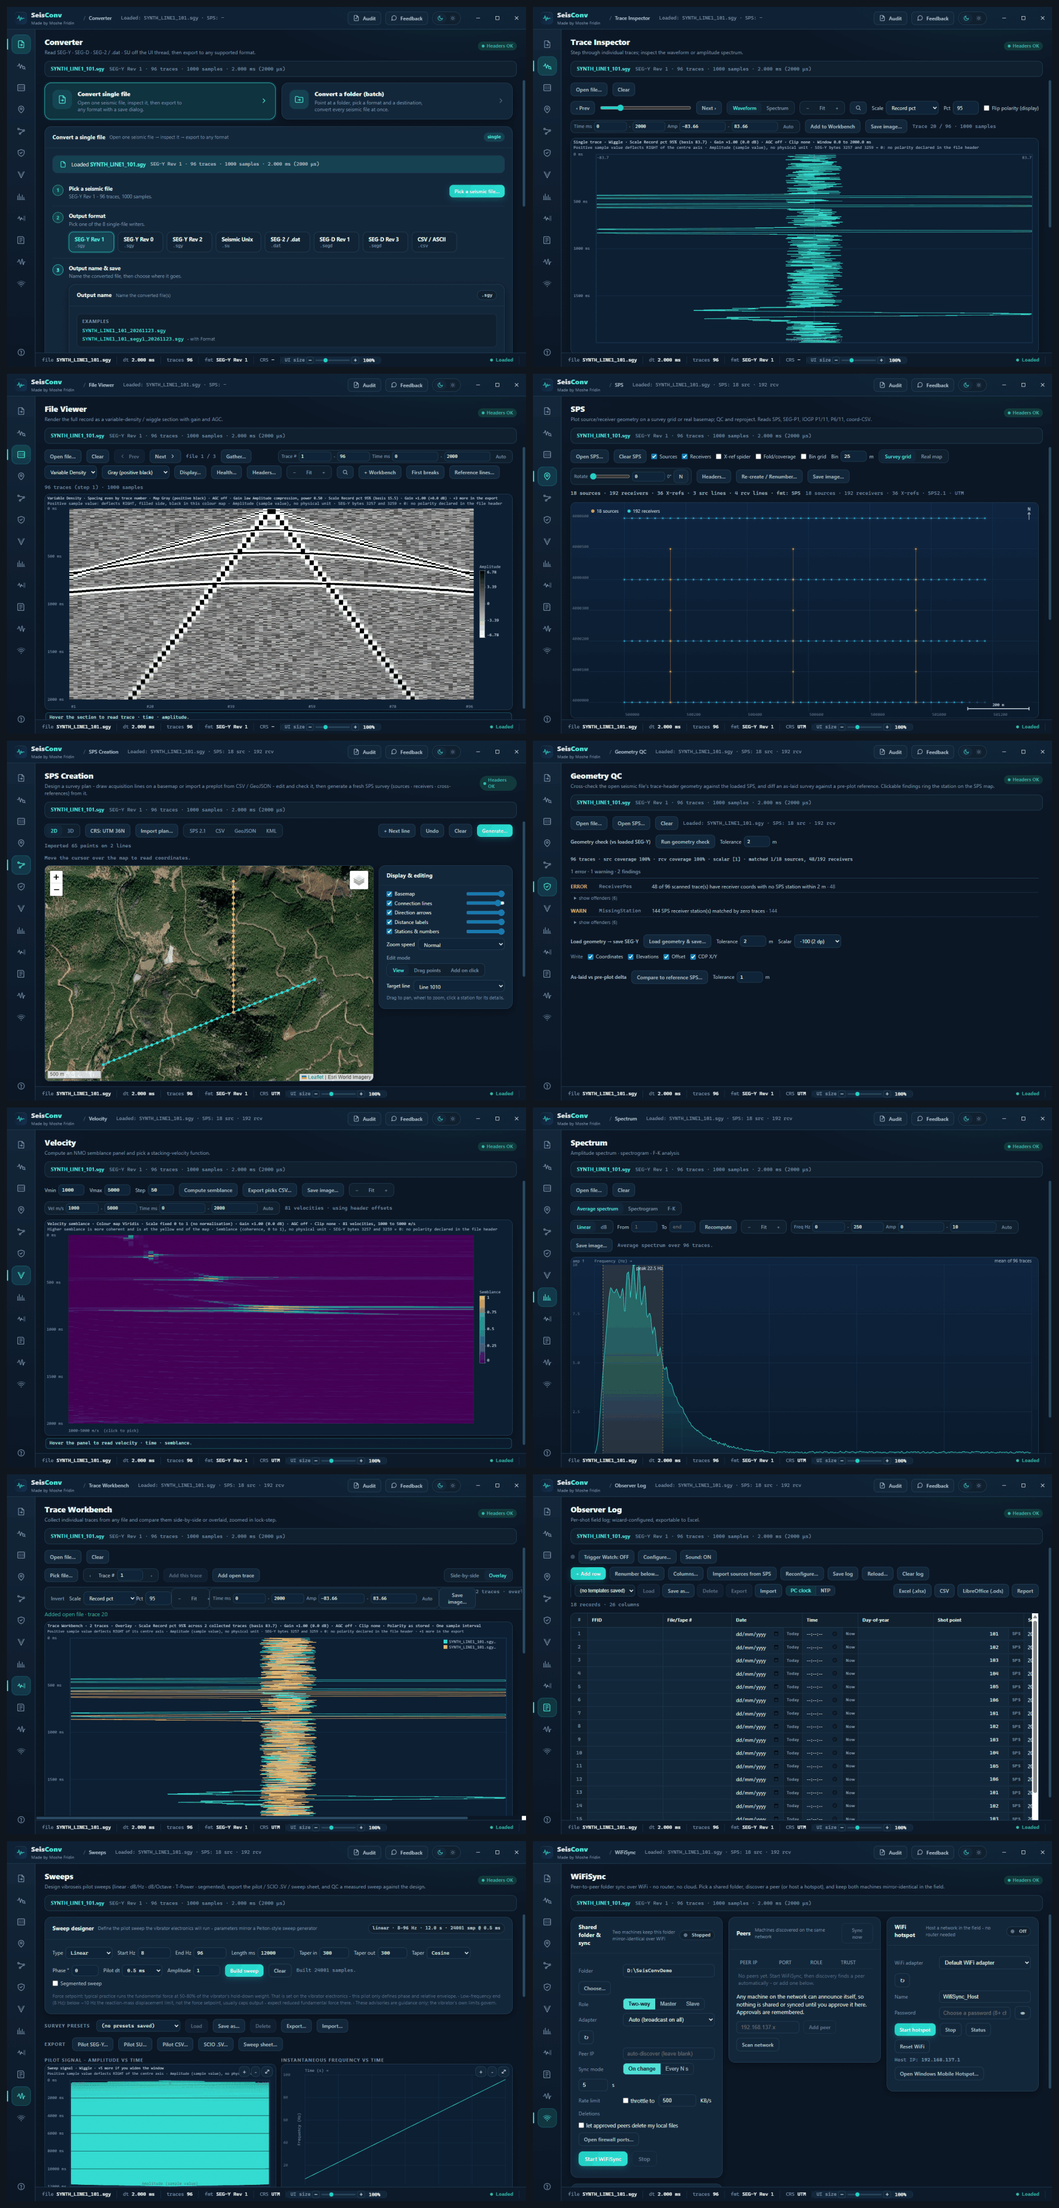
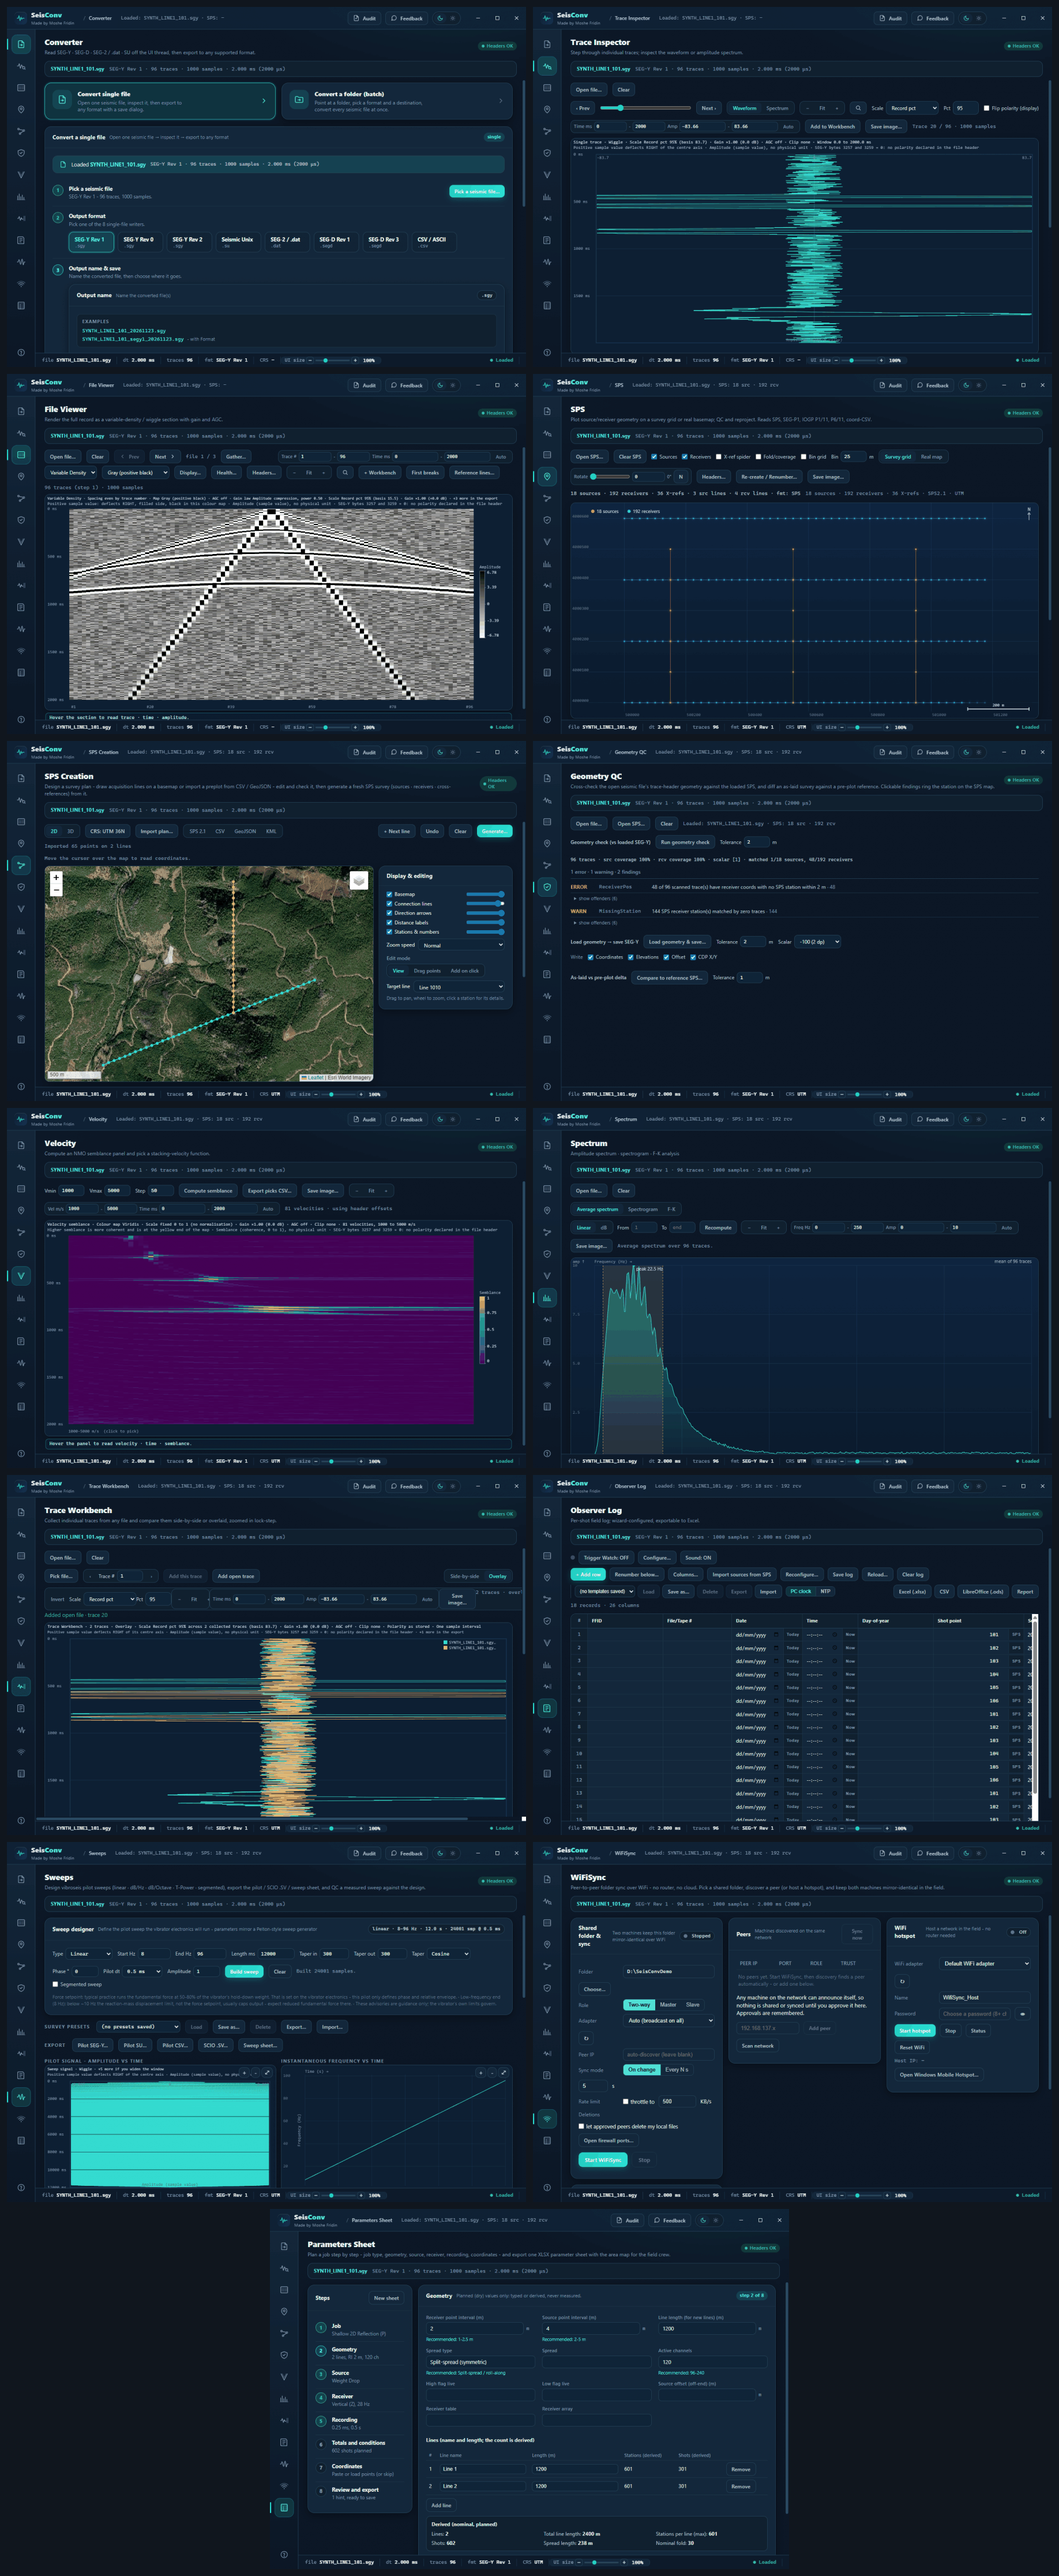
docs(readme): the Parameters Sheet tab, thirteen tabs, and the facts it changed
- Parameters Sheet: new Features section and Contents entry, and named in
  the tab summary, worded from MANUAL.md and docs/manual/parts.
- Tab counts: twelve -> thirteen (summary, gallery heading, contact sheet,
  architecture tree "13-tab shell").
- Online features: four -> five, adding the Parameters Sheet area-map
  basemap, as MANUAL.md and PRIVACY.md already describe it.
- Core tree gains sheet/; renderer is ~1.14 MB app.ts (committed blob
  1,135,284 bytes) plus manual.ts and paramsheet.ts.
- Manual: 108 pages (rendered locally with the 0.8.8 manual shots; the
  release regenerates them), Part II now eleven worked jobs.
- Measured: 561 passed / 0 failed / 4 skipped; 200 golden display states.
- Download: names the installer file pattern and adds the Microsoft Store
  listing, with a note that the Store build updates through the Store.
- tabs.png regenerated with all thirteen tabs from the synthetic manual
  fixtures, on the secondary display at 1240x860, fresh profile, every
  frame through the frame-safety denylist, quantised to 256 colours.

diff --git a/README.md b/README.md
@@ -52,15 +52,15 @@
 
 SeisConv is a Windows desktop application built on Electron, with a platform-agnostic TypeScript core, for working with seismic data files. Drop in any file and SeisConv identifies the format revision, sample encoding (IBM float or IEEE), and byte order automatically, before you choose an output format. All parsing runs on a worker thread; the UI stays responsive on multi-gigabyte files.
 
-It **runs offline** - no account, no cloud, no licence server - and nothing you open is uploaded anywhere. Four optional features touch the internet: the real-map basemap on the SPS tabs, which fetches map tiles; the optional basemap band in a GeoTIFF export, which downloads the tiles it resamples; Sync clock in the Observer's Log, which queries an NTP time server; and Check for updates in Help, which asks GitHub once whether a newer release has been published and downloads nothing; on Windows its Update now button, only when you click and confirm it, downloads that release's installer from GitHub, verifies its SHA-256 fingerprint and installs it. None of the four is required to use the app, none of them is contacted unless you ask for it, and everything else, the roughly 7,000-CRS EPSG registry included, works with no connection at all.
+It **runs offline** - no account, no cloud, no licence server - and nothing you open is uploaded anywhere. Five optional features touch the internet: the real-map basemap on the SPS tabs, which fetches map tiles; the optional basemap band in a GeoTIFF export, which downloads the tiles it resamples; the area-map basemap of the Parameters Sheet, which downloads the tiles for the map picture only when you save the sheet or ask for a preview; Sync clock in the Observer's Log, which queries an NTP time server; and Check for updates in Help, which asks GitHub once whether a newer release has been published and downloads nothing; on Windows its Update now button, only when you click and confirm it, downloads that release's installer from GitHub, verifies its SHA-256 fingerprint and installs it. None of the five is required to use the app, none of them is contacted unless you ask for it, and everything else, the roughly 7,000-CRS EPSG registry included, works with no connection at all.
 
 **Who it is for:** field crews, party chiefs and observers who need to check and convert a record on the spot, and processing geophysicists who need geometry and headers to be right before the data reaches a processing system.
 
-Twelve tabs cover the full office-and-field workflow: format conversion including batch to single tape-image combine (Converter), per-trace inspection with FFT QC (Trace Inspector), section visualization with first-break picking and trace-health QC (File Viewer), multi-format survey-geometry QC (SPS), survey design from a map (SPS Creation), NMO velocity analysis (Velocity), frequency and wavenumber analysis (Spectrum Analysis), multi-trace comparison and correlation (Trace Workbench), a configurable field-log grid (Observer's Log), SEG-Y to SPS cross-validation (Geometry QC), a vibroseis sweep designer and sweep QC (Sweeps), and built-in peer-to-peer file sharing over local WiFi with no router or configuration (WiFiSync). Multi-gigabyte files open through a streaming trace index, and any operation that can take more than a few seconds shows a progress bar.
+Thirteen tabs cover the full office-and-field workflow: format conversion including batch to single tape-image combine (Converter), per-trace inspection with FFT QC (Trace Inspector), section visualization with first-break picking and trace-health QC (File Viewer), multi-format survey-geometry QC (SPS), survey design from a map (SPS Creation), NMO velocity analysis (Velocity), frequency and wavenumber analysis (Spectrum Analysis), multi-trace comparison and correlation (Trace Workbench), a configurable field-log grid (Observer's Log), SEG-Y to SPS cross-validation (Geometry QC), a vibroseis sweep designer and sweep QC (Sweeps), built-in peer-to-peer file sharing over local WiFi with no router or configuration (WiFiSync), and a step-by-step job planner that saves one Excel parameter sheet for the field crew (Parameters Sheet). Multi-gigabyte files open through a streaming trace index, and any operation that can take more than a few seconds shows a progress bar.
 
 If you are looking for an **open source alternative** to a commercial format converter or SEG-Y viewer, SeisConv is meant to complement rather than replace the established toolchain: it **complements Seismic Unix, OpendTect and ObsPy** for the specific jobs of format conversion, header and geometry QC, and survey positioning, and it puts those jobs in a graphical Windows application that needs no scripting environment to run.
 
-<p align="center"><b>Seven more of the twelve tabs.</b></p>
+<p align="center"><b>Seven more of the thirteen tabs.</b></p>
 
 <table align="center">
   <tr>
@@ -99,6 +99,7 @@ If you are looking for an **open source alternative** to a commercial format con
   - [Observer's Log](#observers-log)
   - [WiFiSync](#wifisync)
   - [Spectrum Analysis](#spectrum-analysis)
+  - [Parameters Sheet](#parameters-sheet)
   - [Viewer controls](#viewer-controls)
 - [Format support](#format-support)
 - [The argument in pictures](#the-argument-in-pictures)
@@ -316,6 +317,19 @@ All three views share the manual X/Y axis range boxes (with Auto reset) and supp
 
 ---
 
+### Parameters Sheet
+
+Plan one seismic job before the crew goes out, and hand them a single Excel workbook. An eight-step wizard (Job, Geometry, Source, Receiver, Recording, Totals and conditions, Coordinates, Review and export) collects the planned values: typed, picked from a list or derived from what you typed, never measured. **Nothing is mandatory**: fill in what you know, skip any step, open the steps in any order, and the saved sheet lists only what was filled.
+
+- **Job type first.** Picking a job type fills recommended defaults (intervals, sample rate, record length, low cut, source, stack, geophone frequency and type, spread type, channels) and shows the recommended range under each field. Every value stays editable, and free typing is always allowed.
+- **Derived for you.** The named lines and their lengths give the line count, stations and shots per line, total shots and files, Nyquist, samples per trace and the nominal fold (2D or 3D).
+- **Hints, never blocks.** A high cut or sweep above Nyquist, typed totals that disagree with the plan, an MASW array shorter than about twice the target depth, SH work planned with vertical geophones: each is pointed out, none stops you.
+- **Coordinates.** Paste a list or load TXT, CSV, KML or GeoJSON. The delimiter, the columns, degrees or metres and a proposed coordinate system are detected and shown, and nothing is applied until you press Confirm; when the numbers cannot tell, it asks. If the point names describe different lines from the Geometry step, it says so and offers to take the line names and lengths from the coordinates. No area yet is a valid answer.
+- **The workbook.** A one-page Parameters sheet (label, value, unit, with real numbers and real dates), an Area sheet with every point's Easting, Northing, latitude and longitude, a Map sheet with the area map (named lines, extent, coordinate grid, scale bar, north arrow), and an About sheet. An optional company logo (PNG or JPEG) goes beside the sheet title and on the map. The map basemap is downloaded only when you save or ask for a preview, and choosing No basemap fetches nothing; with no connection the sheet is still saved, the map drawn on grey with a note, and the coordinates are exact.
+- **Reuse it.** Save as layout keeps the parameters, the lines and the logo as a named layout on this computer; the coordinate list and the job-specific details are added only if you tick them. Start the next similar job from the saved-layouts list at the top of the Job step, where Manage renames, exports or deletes layouts. The same configuration can be exported to, or imported from, a `.seisparams` file to keep elsewhere or send to a colleague. The sheet itself starts empty every time the app opens.
+
+---
+
 ### Viewer controls
 
 Every seismic viewer (File Viewer, Trace Inspector, Spectrum Analysis, Velocity, Trace Workbench) provides manual X-axis and Y-axis range boxes (min / max numeric inputs) plus an **Auto** button that clears the overrides and reverts to auto-fit. This makes it straightforward to compare the same time window across tabs or to zoom into a specific frequency band in the Spectrum views.
@@ -427,10 +441,10 @@ the panel exactly as it stands as a red, green or blue deficient viewer would se
 Zoom, gain, colour map, AGC, the scale basis and the trace window all survive the page turn, so what changes
 on screen is the data and not the framing.
 
-### Twelve tabs, one application
+### Thirteen tabs, one application
 
 <p align="center">
-  <img src="design/promo/tabs.png" width="98%" alt="Contact sheet of all twelve SeisConv tabs"/>
+  <img src="design/promo/tabs.png" width="98%" alt="Contact sheet of all thirteen SeisConv tabs"/>
 </p>
 
 <details>
@@ -441,8 +455,8 @@ will give you different figures.
 
 | What | Measured |
 |---|---|
-| Core unit tests | **513 passed, 0 failed, 4 skipped** without local sample data (`npm run test:core`) |
-| Pixel render oracle | **197 display states** hashed and compared, so a refactor cannot silently change a drawing |
+| Core unit tests | **561 passed, 0 failed, 4 skipped** without local sample data (`npm run test:core`) |
+| Pixel render oracle | **200 display states** hashed and compared, so a refactor cannot silently change a drawing |
 | File Viewer section redraw | **234 ms down to 43 ms** after the display rework, on the same record |
 | Near-trace gather | **116 records** of a real field folder read and drawn in about **2 seconds** |
 
@@ -454,8 +468,15 @@ will give you different figures.
 
 **Windows 10 / 11, 64-bit.** Download the installer from the
 [latest release](https://github.com/m0shiko8811-beep/SeisConv/releases/latest)
-and run it. The installer lets you choose the installation directory (per-user
-by default, with an option to elevate and install for all users).
+and run it: the file is `SeisConv-Setup-<version>.exe`. The installer lets you
+choose the installation directory (per-user by default, with an option to
+elevate and install for all users).
+
+Or install it from the
+[Microsoft Store](https://apps.microsoft.com/detail/9N0XMXJKZ16R). The Store
+build updates through the Store, so it has no Check for updates button, and a
+new version reaches it only after Microsoft's certification, which can take a
+few days after the GitHub release.
 
 > **The installer is not code-signed.** On first run Windows SmartScreen will
 > show *"Windows protected your PC"*. Click **More info**, then **Run anyway**.
@@ -468,13 +489,13 @@ but are **not built or distributed** - on those platforms, build from source
 
 ### The manual
 
-A **102 page user manual** is attached to every release, in
+A **108 page user manual** is attached to every release, in
 [A4](https://github.com/m0shiko8811-beep/SeisConv/releases/latest/download/SeisConv-Manual-A4.pdf)
 and
 [US Letter](https://github.com/m0shiko8811-beep/SeisConv/releases/latest/download/SeisConv-Manual-Letter.pdf).
 
 It is written to be useful whether this is your first day on a crew or your
-twentieth year: Part I assumes no seismic background at all, Part II is ten
+twentieth year: Part I assumes no seismic background at all, Part II is eleven
 worked jobs in the form "I need to ...", Part III is a control by control
 reference generated from the application itself so it cannot drift, and Part IV
 covers the byte layouts, the coordinate handling and what is lossy where.
@@ -502,6 +523,9 @@ The same reference is inside the application under **Help**, and in
 |   |               tracehealth · robuststats
 |   +-- render/     Colormaps and display model
 |   +-- export/     xlsx · ods hand-rolled writers (no runtime deps)
+|   +-- sheet/      Parameters Sheet model · job-type presets · coordinate
+|   |               sniffer · line reconcile · map frame · workbook layout ·
+|   |               saved layouts and .seisparams configuration
 |   +-- sps/        SPS 2.1 parse · QC · reproject ·
 |   |               formats/ (segp1 · p111 · p611 · coordcsv + bingrid)
 |   +-- gis/        GeoTIFF · ESRI Shapefile · WKT (.prj) writers ·
@@ -521,8 +545,9 @@ The same reference is inside the application under **Help**, and in
 |   |               window navigation blocked; CSP default-src 'none')
 |   +-- field/      WiFiSync host process - engine · UDP discovery · TCP transport ·
 |                   fs watcher · file utils · Windows Mobile-Hotspot control
-+-- renderer/       esbuild-bundled TypeScript UI (12-tab shell) - one
-                    ~1.13 MB app.ts plus a separate manual.ts module
++-- renderer/       esbuild-bundled TypeScript UI (13-tab shell) - one
+                    ~1.14 MB app.ts plus separate manual.ts and
+                    paramsheet.ts modules
 ```
 
 The `core/` package has no Electron or DOM imports - it can run in Node, a worker thread, or a browser. The WiFiSync protocol lives in `core/field` as pure, testable algorithms; the OS-facing sockets, file-watching, and hotspot control live in `electron/field`.
